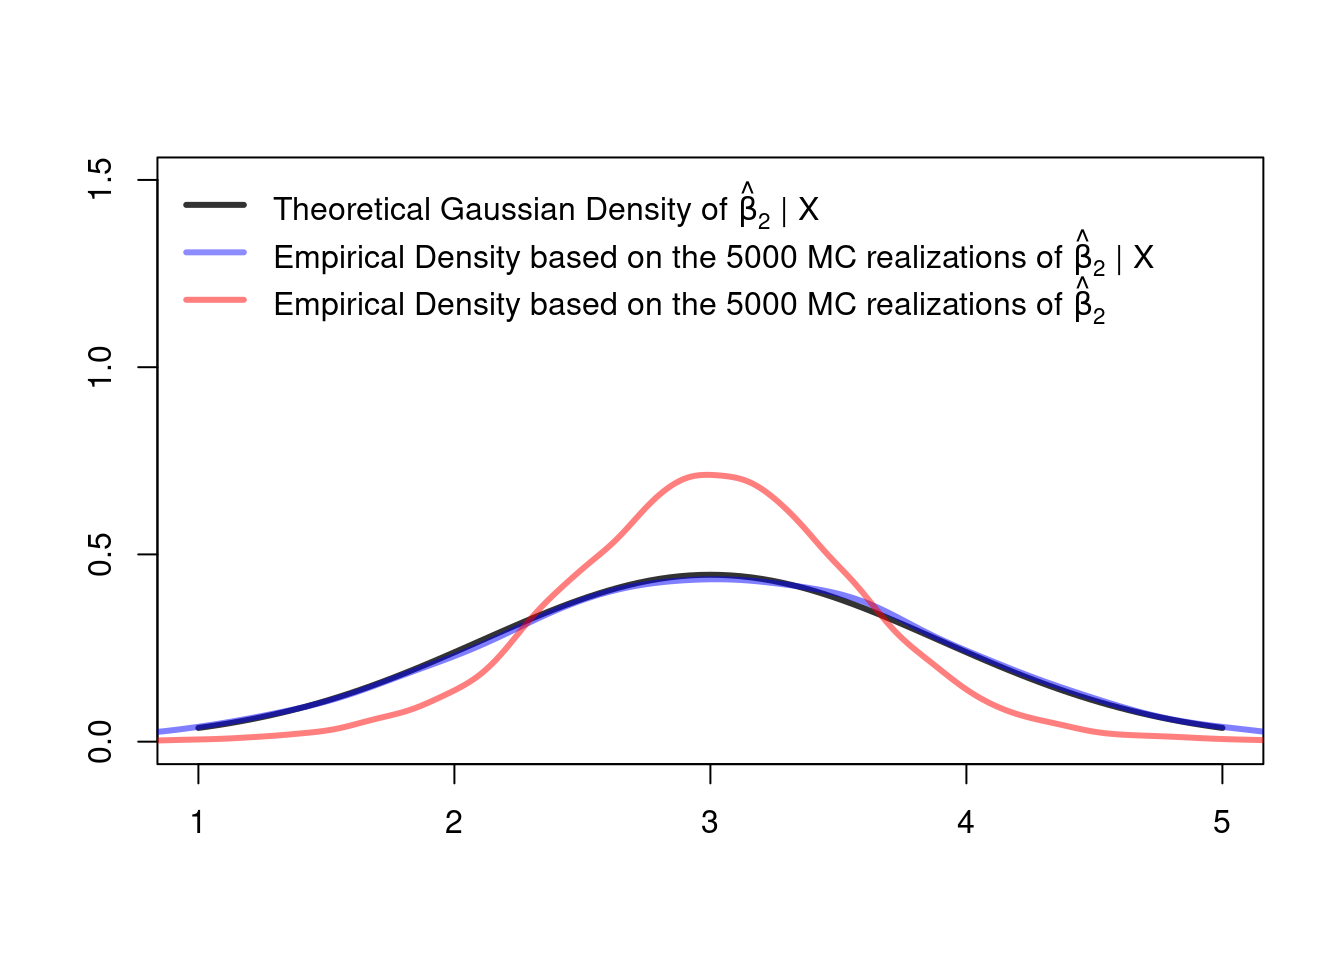
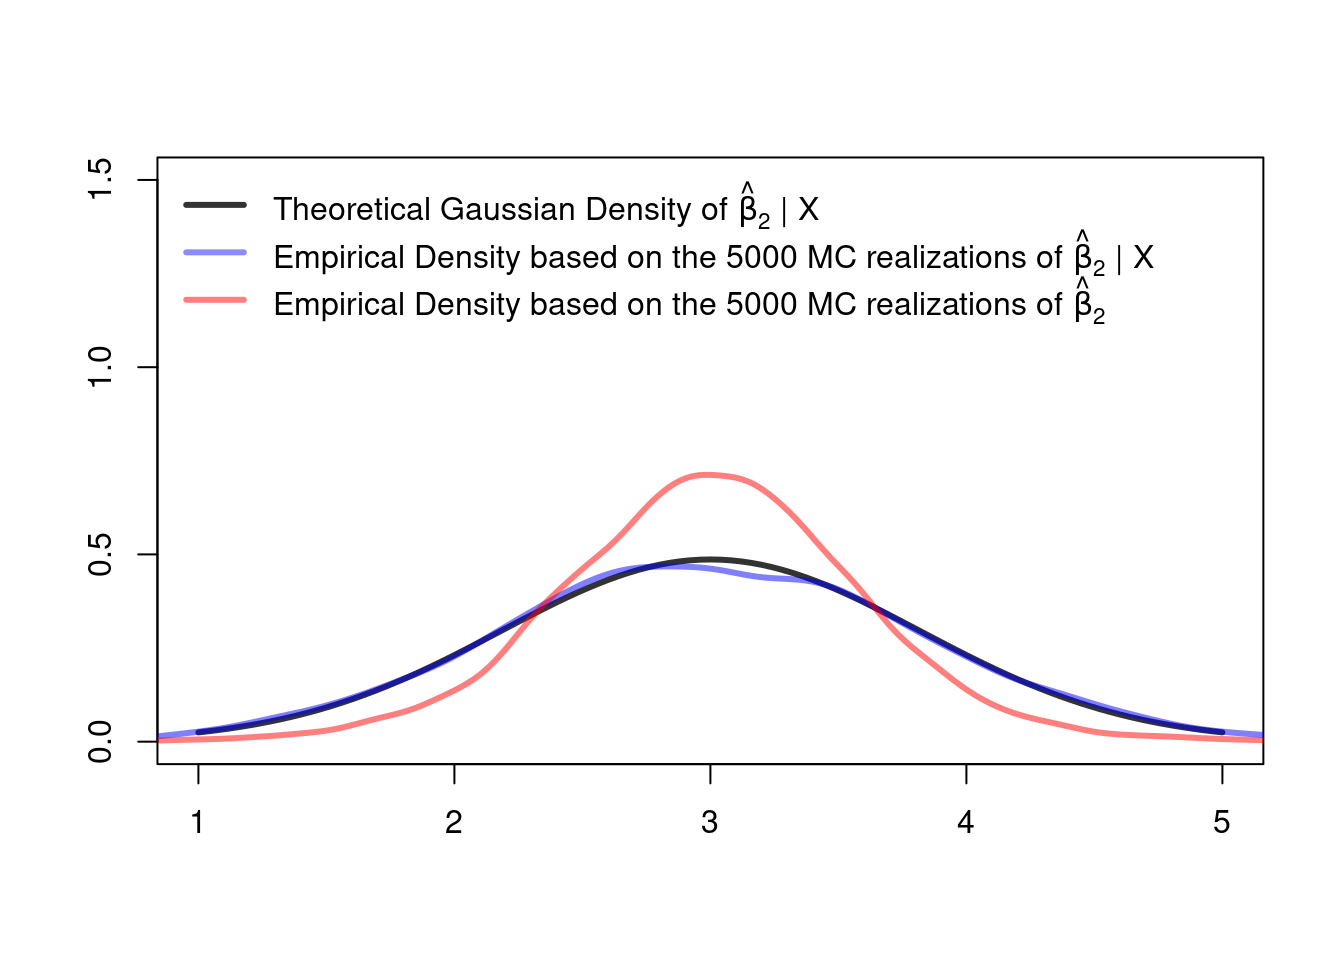
update ssinf ch

Changed region(s): [[0.375, 0.5625, 0.6875, 0.6562], [0.6875, 0.6562, 0.9375, 0.7812], [0.125, 0.6562, 0.375, 0.7812]]

diff --git a/85467d963958861b842aa28b9eb262b1ea250101/docs/05-Small-Sample-Inference.html b/85467d963958861b842aa28b9eb262b1ea250101/docs/05-Small-Sample-Inference.html
@@ -631,16 +631,16 @@ X_{i3}&amp;\sim U[12,22]\\
 <span id="cb11-38"><a href="#cb11-38" aria-hidden="true" tabindex="-1"></a><span class="fu">round</span>(<span class="fu">head</span>(test_data,     <span class="dv">3</span>), <span class="dv">2</span>) <span class="co"># New Y, new X</span></span></code><button title="Copy to Clipboard" class="code-copy-button"><i class="bi"></i></button></pre></div>
 <div class="cell-output cell-output-stdout">
 <pre><code>       Y X_1  X_2   X_3
-1  64.58   1 3.61 12.57
-2  70.56   1 4.60 12.94
-3 101.85   1 6.46 19.06</code></pre>
+1 117.95   1 7.17 21.78
+2  87.37   1 6.35 17.38
+3  86.57   1 3.14 19.85</code></pre>
 </div>
 <div class="sourceCode cell-code" id="cb13"><pre class="sourceCode r code-with-copy"><code class="sourceCode r"><span id="cb13-1"><a href="#cb13-1" aria-hidden="true" tabindex="-1"></a><span class="fu">round</span>(<span class="fu">head</span>(test_data_new, <span class="dv">3</span>), <span class="dv">2</span>) <span class="co"># New Y, conditionally on X</span></span></code><button title="Copy to Clipboard" class="code-copy-button"><i class="bi"></i></button></pre></div>
 <div class="cell-output cell-output-stdout">
-<pre><code>      Y X_1  X_2   X_3
-1 60.61   1 3.61 12.57
-2 72.11   1 4.60 12.94
-3 98.43   1 6.46 19.06</code></pre>
+<pre><code>       Y X_1  X_2   X_3
+1 108.06   1 7.17 21.78
+2  92.86   1 6.35 17.38
+3  91.13   1 3.14 19.85</code></pre>
 </div>
 </div>
 <section id="check-distribution-of-hatbetax-vs-distribution-of-hatbeta" class="level3" data-number="5.5.1">
@@ -718,11 +718,11 @@ X_{i3}&amp;\sim U[12,22]\\
 <h3 data-number="5.5.2" class="anchored" data-anchor-id="check-variance-of-hatbetax-vs-variance-of-hatbeta"><span class="header-section-number">5.5.2</span> Check: Variance of <span class="math inline">\(\hat\beta|X\)</span> vs Variance of <span class="math inline">\(\hat\beta\)</span></h3>
 <p>The theoretical variance of <span class="math inline">\(\hat{\beta}_2|X\)</span> is:<br></p>
 <center>
-<span class="math inline">\(Var(\hat{\beta}_2|X)=\sigma^2[(X'X)^{-1}]_{22}=\)</span> <code>var_true_beta_2</code> <span class="math inline">\(=\)</span> 0.801.
+<span class="math inline">\(Var(\hat{\beta}_2|X)=\sigma^2[(X'X)^{-1}]_{22}=\)</span> <code>var_true_beta_2</code> <span class="math inline">\(=\)</span> 0.672.
 </center>
 <p><br></p>
 <ul>
-<li>The Monte Carlo approximation to the true variance of <span class="math inline">\(\hat{\beta}_2|X\)</span> is <code>var(hatbeta2_sim_cond)</code> <span class="math inline">\(=\)</span> 0.798 and thus close to the theoretical counterpart.</li>
+<li>The Monte Carlo approximation to the true variance of <span class="math inline">\(\hat{\beta}_2|X\)</span> is <code>var(hatbeta2_sim_cond)</code> <span class="math inline">\(=\)</span> 0.683 and thus close to the theoretical counterpart.</li>
 <li>The Monte Carlo approximation to the true variance of <span class="math inline">\(\hat{\beta}_2\)</span> is <code>var(hatbeta2_sim_uncond)</code> <span class="math inline">\(=\)</span> 0.355 and thus clearly larger than the theoretical counterpart.</li>
 </ul>
 <!-- While the unconditional distribution has a larger variance.  -->
@@ -1126,7 +1126,7 @@ P_{H_0}(|t|&gt;t_{obs,j}),\quad j\in\{1,gender, age, income\}
 <li><p><strong>Residual standard error</strong> <span class="math inline">\(\sqrt{\frac{1}{n-K}\sum_{i=1}^n\hat\varepsilon^2_i}=\)</span> <code>sqrt(sum(resid(lm_obj)^2)/(n-4))</code> <span class="math inline">\(=\)</span> 0.7908</p></li>
 <li><p><strong>Multiple R-squared:</strong> <span class="math inline">\(R^2=\)</span> <code>lm_obj_summary$r.squared</code> <span class="math inline">\(=\)</span> 0.01885</p></li>
 <li><p><strong>Adjusted R-squared:</strong> <span class="math inline">\(\bar{R}^2=\)</span> <code>lm_obj_summary$adj.r.squared</code> <span class="math inline">\(=\)</span> 0.01829</p></li>
-<li><p><strong>F-statistic:</strong> This is a standard <span class="math inline">\(F\)</span> test that tests the null hypothesis that all parameters except the intercept are zero; i.e.<br> <span class="math inline">\(H_0\)</span>: <span class="math inline">\(\beta_{gender}=\beta_{age}=\beta_{income}=0\)</span><br> versus<br> <span class="math inline">\(H_A\)</span>: At least one parameter is not zero.<br> So, this is equivalent to:</p></li>
+<li><p><strong>F-statistic:</strong> This is a standard <span class="math inline">\(F\)</span> test that tests the null hypothesis that all parameters except the intercept are zero; i.e.<br> <span class="math inline">\(H_0\)</span>: <span class="math inline">\(\beta_{gender}=\beta_{age}=\beta_{income}=0\)</span><br> versus<br> <span class="math inline">\(H_A\)</span>: At least one parameter is not zero.<br><br> You can replicate this test result using the following <code>R</code> code:</p></li>
 </ul>
 <div class="cell">
 <div class="sourceCode cell-code" id="cb37"><pre class="sourceCode r code-with-copy"><code class="sourceCode r"><span id="cb37-1"><a href="#cb37-1" aria-hidden="true" tabindex="-1"></a>car<span class="sc">::</span><span class="fu">linearHypothesis</span>(</span>
@@ -1143,7 +1143,8 @@ P_{H_0}(|t|&gt;t_{obs,j}),\quad j\in\{1,gender, age, income\}
 </div>
 <center>
 <div class="cell" data-ech="true">
-<div class="sourceCode cell-code" id="cb38"><pre class="sourceCode r code-with-copy"><code class="sourceCode r"><span id="cb38-1"><a href="#cb38-1" aria-hidden="true" tabindex="-1"></a><span class="fu">stargazer</span>(lm_obj, <span class="at">type=</span><span class="st">"html"</span>) <span class="co"># Hint: use type = "latex" to produce a latex table</span></span></code><button title="Copy to Clipboard" class="code-copy-button"><i class="bi"></i></button></pre></div>
+<div class="sourceCode cell-code" id="cb38"><pre class="sourceCode r code-with-copy"><code class="sourceCode r"><span id="cb38-1"><a href="#cb38-1" aria-hidden="true" tabindex="-1"></a><span class="co"># Hint: use type = "latex" to produce a latex table</span></span>
+<span id="cb38-2"><a href="#cb38-2" aria-hidden="true" tabindex="-1"></a><span class="fu">stargazer</span>(lm_obj, <span class="at">type=</span><span class="st">"html"</span>)</span></code><button title="Copy to Clipboard" class="code-copy-button"><i class="bi"></i></button></pre></div>
 
 <table style="text-align:center">
 <tbody><tr>
@@ -1332,7 +1333,7 @@ F Statistic
 <p><img src="05-Small-Sample-Inference_files/figure-html/unnamed-chunk-25-1.png" class="img-fluid" width="672"></p>
 </div>
 </div>
-<p>Lukily, the data set <code>DoctorVisits</code> has a really large sample size of <span class="math inline">\(n=\)</span> 5190 and thus there is a way out of this problem: The large sample inference framework introduced in the next chapter.</p>
+<p>Lukily, the data set <code>DoctorVisits</code> has a really <strong>large sample size</strong> of <span class="math inline">\(n=\)</span> 5190 and thus there is a way out of this problem: The large sample inference framework introduced in the next chapter.</p>
 </section>
 </section>
 <section id="references" class="level1 unnumbered">
